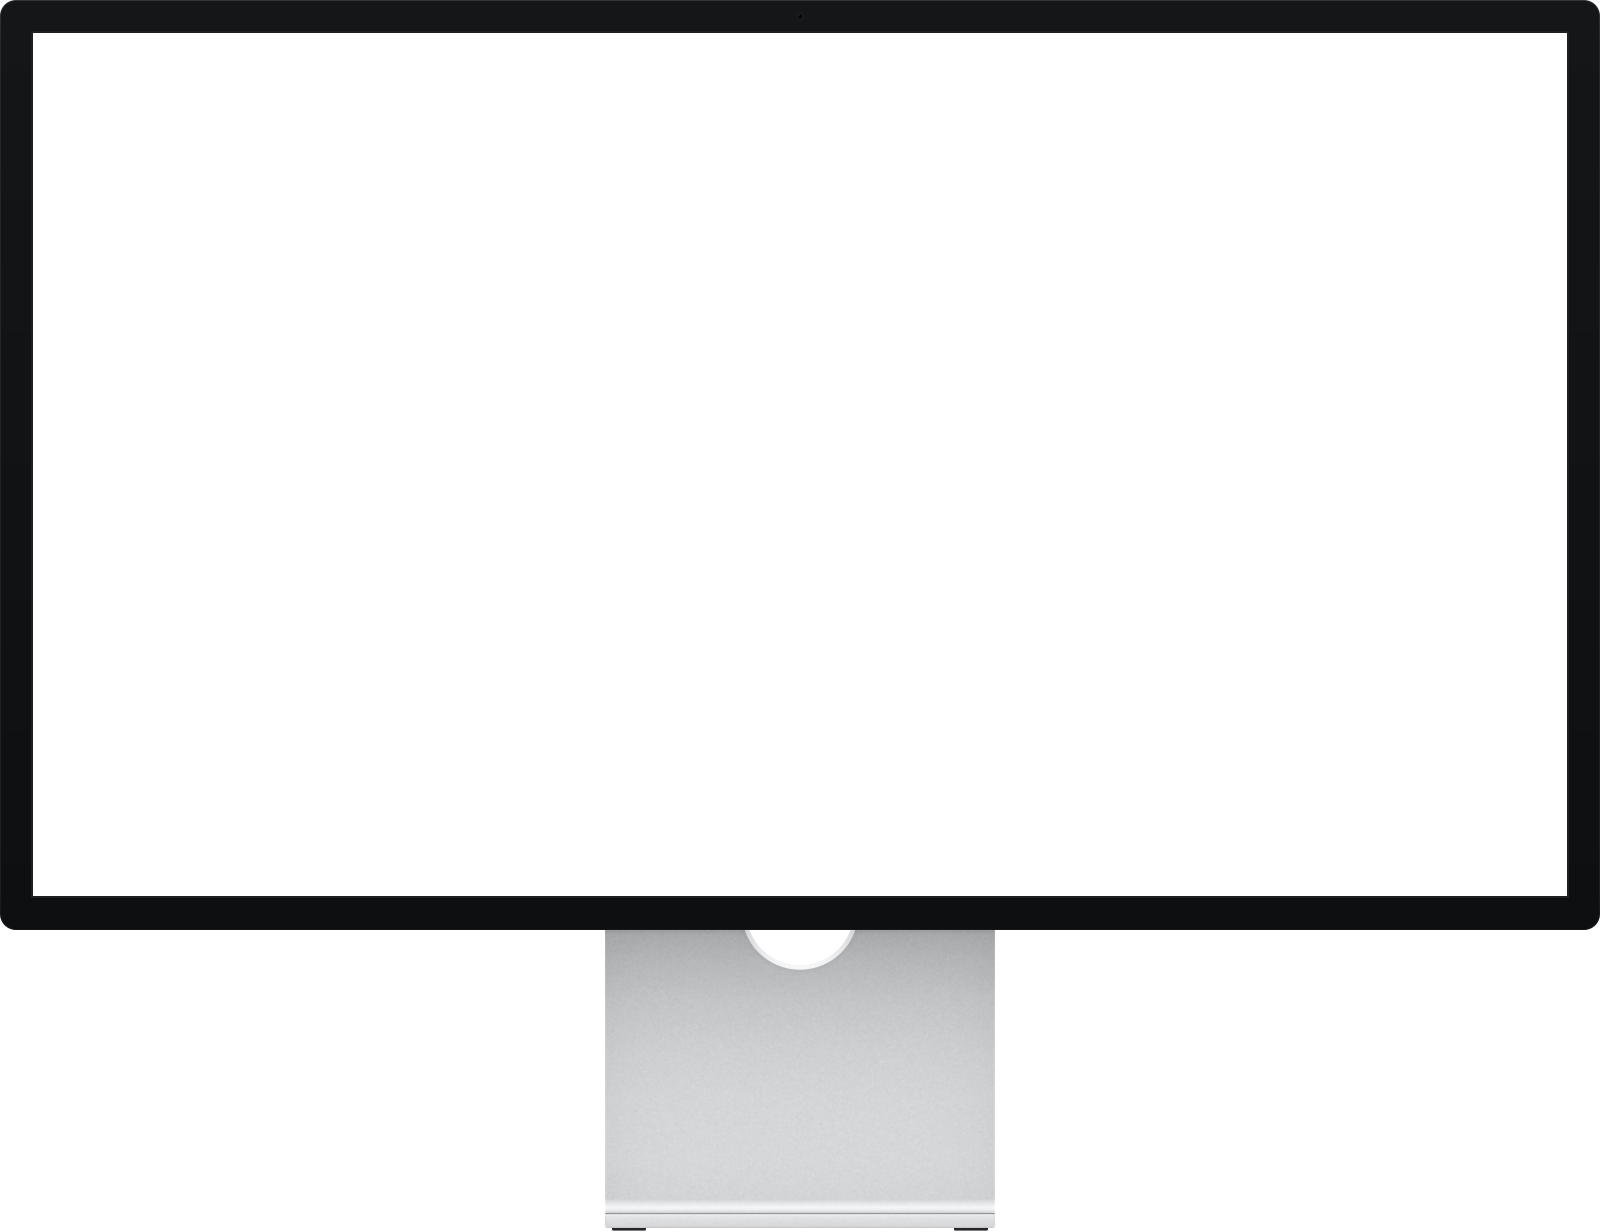
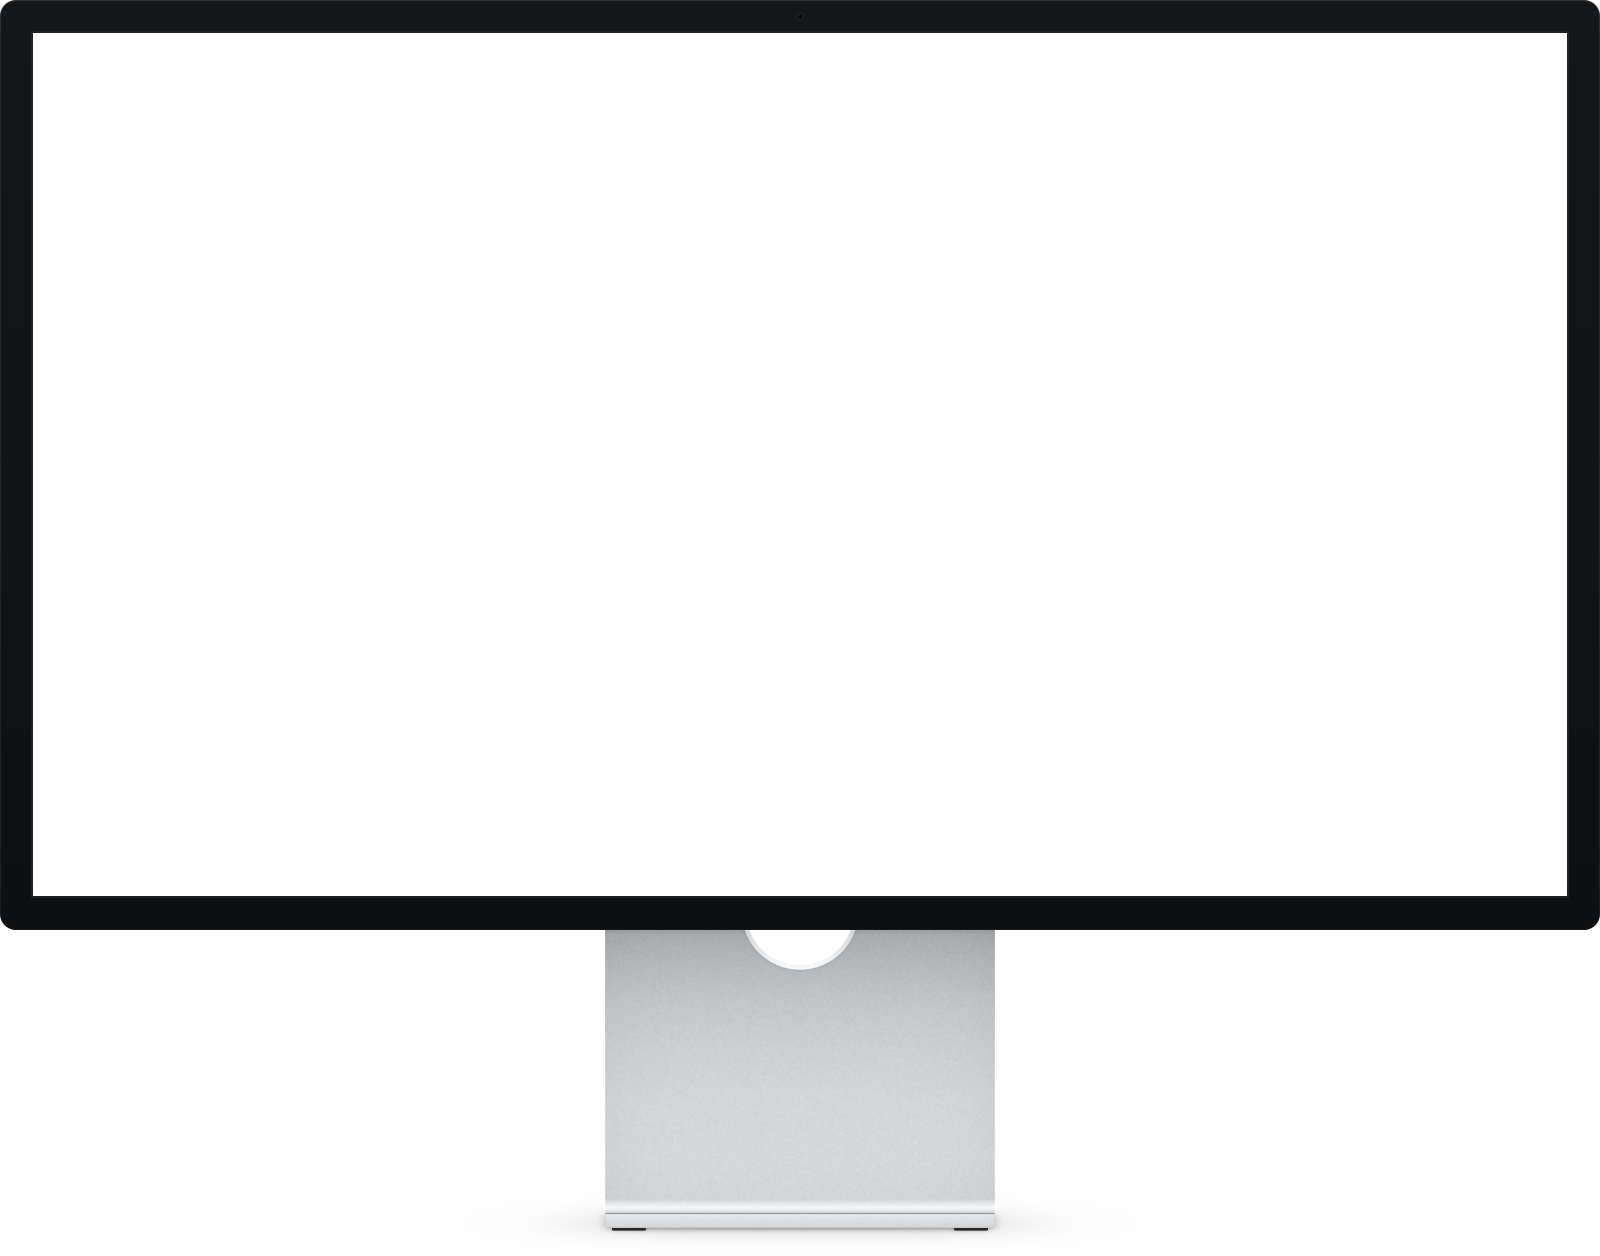
Monitor: a soft shadow under the stand
A faint shadow on the surface the monitor stands on, for a little depth:
a tight dark line where the foot meets it, a soft haze round the foot
running a little past its ends, a wider and fainter one round that, and a
touch more under the rubber feet (scripts/render-monitor.py). The frame
runs on 28px below the foot for it, 1600x1256 now; the card's box grows
by as much and moves down by half, so the monitor stays where it was.

Claude-Session: https://claude.ai/code/session_01SsLBR8y7fthZFpGGN97WsD

Changed region(s): [[0.0, 0.7094, 1.0, 0.8019], [0.375, 0.9562, 0.625, 1.0]]

diff --git a/src/components/showcase/showcase.css b/src/components/showcase/showcase.css
@@ -147,16 +147,17 @@
 }
 
 /* The monitor card, placed as its reference placed an iMac (same 1440 frame,
-   same card): the monitor is 83.8% of the card's height, 5.7% in from the left
-   and a hair below centre; the title sits at the top of the 71% column, the
-   notes at its bottom — the notes' block is pinned by its bottom edge, and
-   inside it every note starts on the same first line, so nothing jumps as they
-   take turns. */
+   same card): the monitor is 83.8% of the card's height, 5.7% in from the left,
+   its top 9.1% down; the frame runs on under the stand for its shadow (1256 to
+   the monitor's 1232), so the box is that much taller, centred that much
+   lower. The title sits at the top of the 71% column, the notes at its
+   bottom — the notes' block is pinned by its bottom edge, and inside it every
+   note starts on the same first line, so nothing jumps as they take turns. */
 .cs-card__monitor {
   position: absolute;
   left: 5.74%;
-  top: 51%;
-  height: 83.8%;
+  top: calc(9.1% + 83.8% * 628 / 1232);
+  height: calc(83.8% * 1256 / 1232);
   transform: translateY(-50%);
 }
 .cs-card[data-device='monitor'] .cs-card__head {

diff --git a/src/components/showcase/MonitorMockup.tsx b/src/components/showcase/MonitorMockup.tsx
@@ -5,16 +5,16 @@ import type { PhoneScreen } from '@/data/showcase';
 import { assets } from '@/data/assets';
 import { useLazyVideo, type VideoWatch } from '@/hooks/useLazyVideo';
 
-// The 16:9 screen inside monitor-frame.webp (1600 x 1232), as drawn
+// The 16:9 screen inside monitor-frame.webp (1600 x 1256), as drawn
 // (scripts/render-monitor.py): x 33..1567, y 33..896. The bezel round it is
-// black glass.
+// black glass; the frame's last 28px are the shadow under the stand.
 const SCREEN = {
-  top: (33 / 1232) * 100,
+  top: (33 / 1256) * 100,
   left: (33 / 1600) * 100,
   width: (1534 / 1600) * 100,
-  height: (863 / 1232) * 100,
+  height: (863 / 1256) * 100,
 };
-const FRAME_AR = '1600 / 1232';
+const FRAME_AR = '1600 / 1256';
 // Same as the phone: the recording runs a little under the bezel, so the
 // seam only ever holds the screen's own pixels.
 const BLEED = '1.5px';

diff --git a/src/components/case/case.css b/src/components/case/case.css
@@ -660,7 +660,7 @@
    wide as the box allows, in the frame's own shape (monitor-frame.webp). */
 .cp-shot--monitor {
   width: 100%;
-  aspect-ratio: 1600 / 1232;
+  aspect-ratio: 1600 / 1256;
 }
 /* The stand-in, until the file is in: a grey screen, blank. */
 .cp-ph {

diff --git a/scripts/render-monitor.py b/scripts/render-monitor.py
@@ -7,8 +7,11 @@ artwork: each edge gets its coverage from a signed distance, at SS times the
 size, and the result is scaled down. The sizes are the product's, in the
 output's pixels: the display is 623 mm wide, so 1 mm is 1600 / 623 = 2.57 px.
 
-The screen's box below (SCREEN) is what MonitorMockup puts the recording in;
-change one, change the other.
+Under the stand, a soft shadow on whatever the monitor stands on: the frame
+runs on 28 px below the foot for it.
+
+The screen's box below (SCREEN) and the frame's size are what MonitorMockup
+puts the recording in; change one, change the other.
 
 usage: python3 scripts/render-monitor.py public/mockups/monitor-frame.webp
 needs numpy, scipy and Pillow.
@@ -19,8 +22,9 @@ import sys
 import numpy as np
 from PIL import Image
 from scipy import ndimage
+from scipy.special import erf
 
-W, H = 1600, 1232
+W, H = 1600, 1256
 SS = 3  # supersampling
 
 # The display: the whole width, 362 mm tall, small round corners.
@@ -57,6 +61,14 @@ def circle(cx, cy, r):
     return np.hypot(X - cx, Y - cy) - r
 
 
+def soft_rect(x0, y0, x1, y1, sx, sy):
+    """A rectangle blurred by a Gaussian sx across and sy down, as 0..1."""
+    k = np.float32(1 / np.sqrt(2))
+    fx = erf((X - x0) * k / sx) - erf((X - x1) * k / sx)
+    fy = erf((Y - y0) * k / sy) - erf((Y - y1) * k / sy)
+    return (0.25 * fx * fy).astype(np.float32)
+
+
 def profile(v, stops):
     """Piecewise linear through (position, value) stops."""
     p, q = zip(*stops)
@@ -87,8 +99,21 @@ def over(rgb, a):
     canvas[..., 3:] = a + canvas[..., 3:] * (1 - a)
 
 
-# --- the stand -------------------------------------------------------------------
+# --- the shadow under the stand ------------------------------------------------
 x0, x1 = ARM
+# Faint, as on a light desk lit from above: a tight dark line where the foot
+# meets the surface, a soft haze round the foot that runs a little past its
+# ends, a wider and fainter one round that, and a touch more under each
+# rubber foot. Painted first; the foot covers its top.
+shade = 0.45 * soft_rect(x0 + 4, FOOT[0], x1 - 4, FOOT[1] + 0.5, 6, 2.6)
+shade += 0.22 * soft_rect(x0, FOOT[0] + 4, x1, FOOT[1] + 2, 55, 9)
+shade += 0.06 * soft_rect(x0 - 40, FOOT[0], x1 + 40, FOOT[1] + 2, 120, 14)
+for fx in (x0 + 7, x1 - 41):
+    shade += 0.16 * soft_rect(fx, FOOT[1], fx + 34, FOOT[1] + 2.6, 3, 1.5)
+over(np.zeros((H * SS, W * SS, 3), np.float32), np.clip(shade, 0, 1))
+del shade
+
+# --- the stand -------------------------------------------------------------------
 u = (X - (x0 + x1) / 2) / ((x1 - x0) / 2)  # -1..1 across the sheet
 edge = np.minimum(X - x0, x1 - X)  # px in from its nearer side
 
